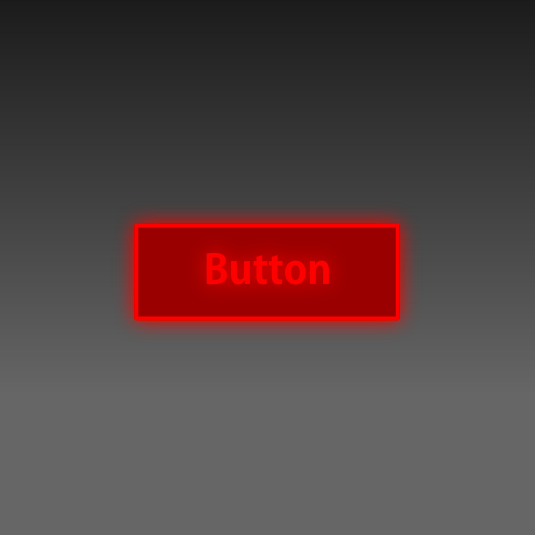
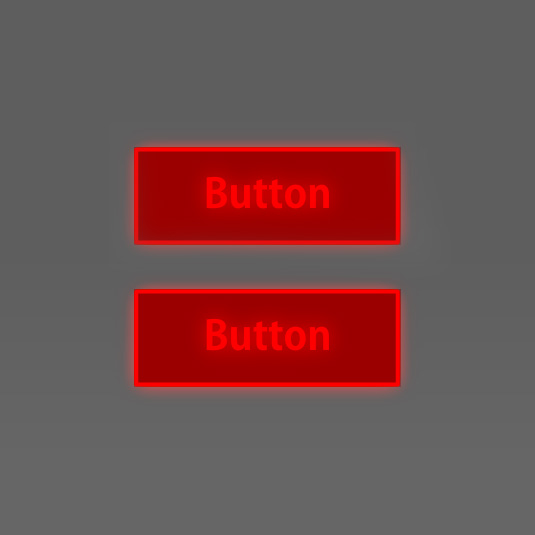
Update components

diff --git a/index.html b/index.html
@@ -8,7 +8,7 @@
     <link href="https://fonts.googleapis.com/css?family=Roboto:300,400" rel="stylesheet">
     <link rel="stylesheet" href="https://maxcdn.bootstrapcdn.com/font-awesome/4.7.0/css/font-awesome.min.css">
     <link href="https://maxcdn.bootstrapcdn.com/font-awesome/4.7.0/css/font-awesome.min.css" rel="stylesheet" integrity="sha384-wvfXpqpZZVQGK6TAh5PVlGOfQNHSoD2xbE+QkPxCAFlNEevoEH3Sl0sibVcOQVnN" crossorigin="anonymous">
-    <link rel="stylesheet" href="https://cdnjs.cloudflare.com/ajax/libs/bulma/0.5.1/css/bulma.min.css" integrity="sha256-CDVQJfU+jJGU/oyDzvnzuGXbv0rz+SyBsPQwyn7x/jQ=" crossorigin="anonymous" />
+    <link rel="stylesheet" href="https://maxcdn.bootstrapcdn.com/bootstrap/4.0.0-beta.2/css/bootstrap.min.css" integrity="sha384-PsH8R72JQ3SOdhVi3uxftmaW6Vc51MKb0q5P2rRUpPvrszuE4W1povHYgTpBfshb" crossorigin="anonymous">
     
     <meta name="description" itemprop="description" content="I am just ordinary guy who love to code." />
     <meta name="keywords" itemprop="keywords" content="kosate,neungkl,neung,kozartae" />
